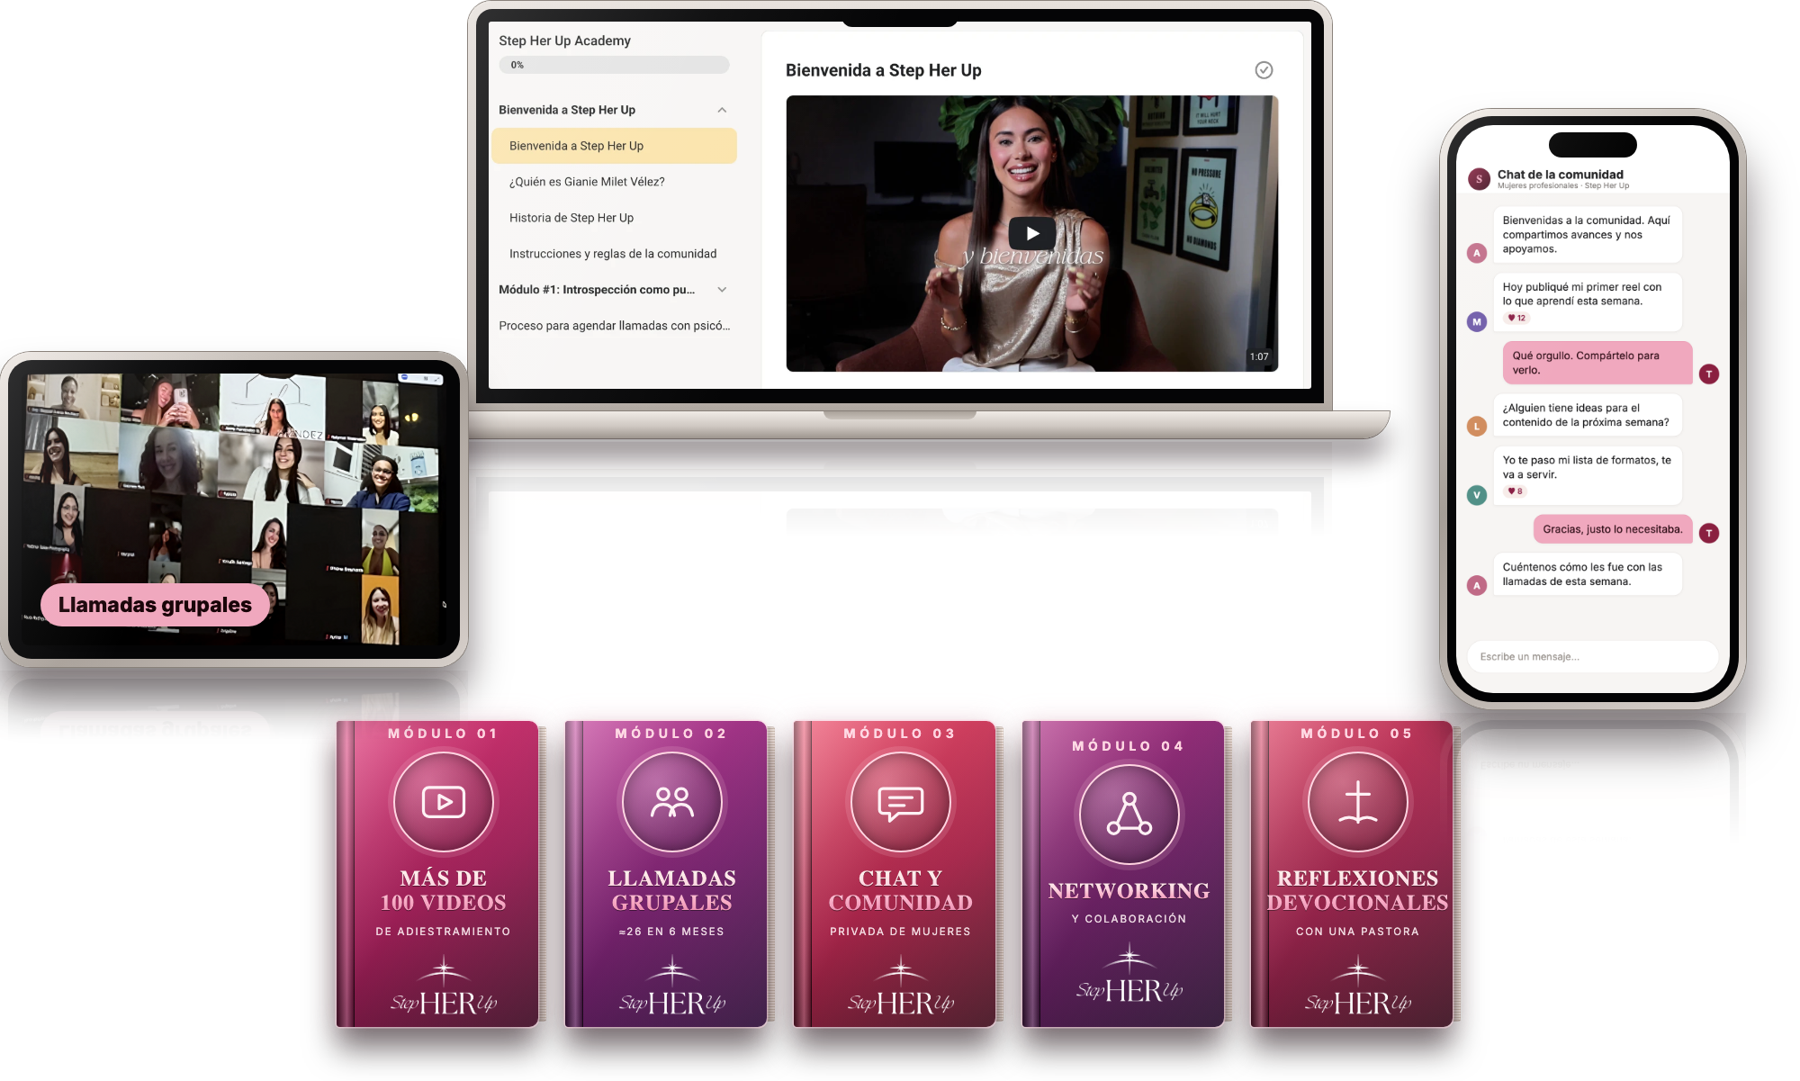
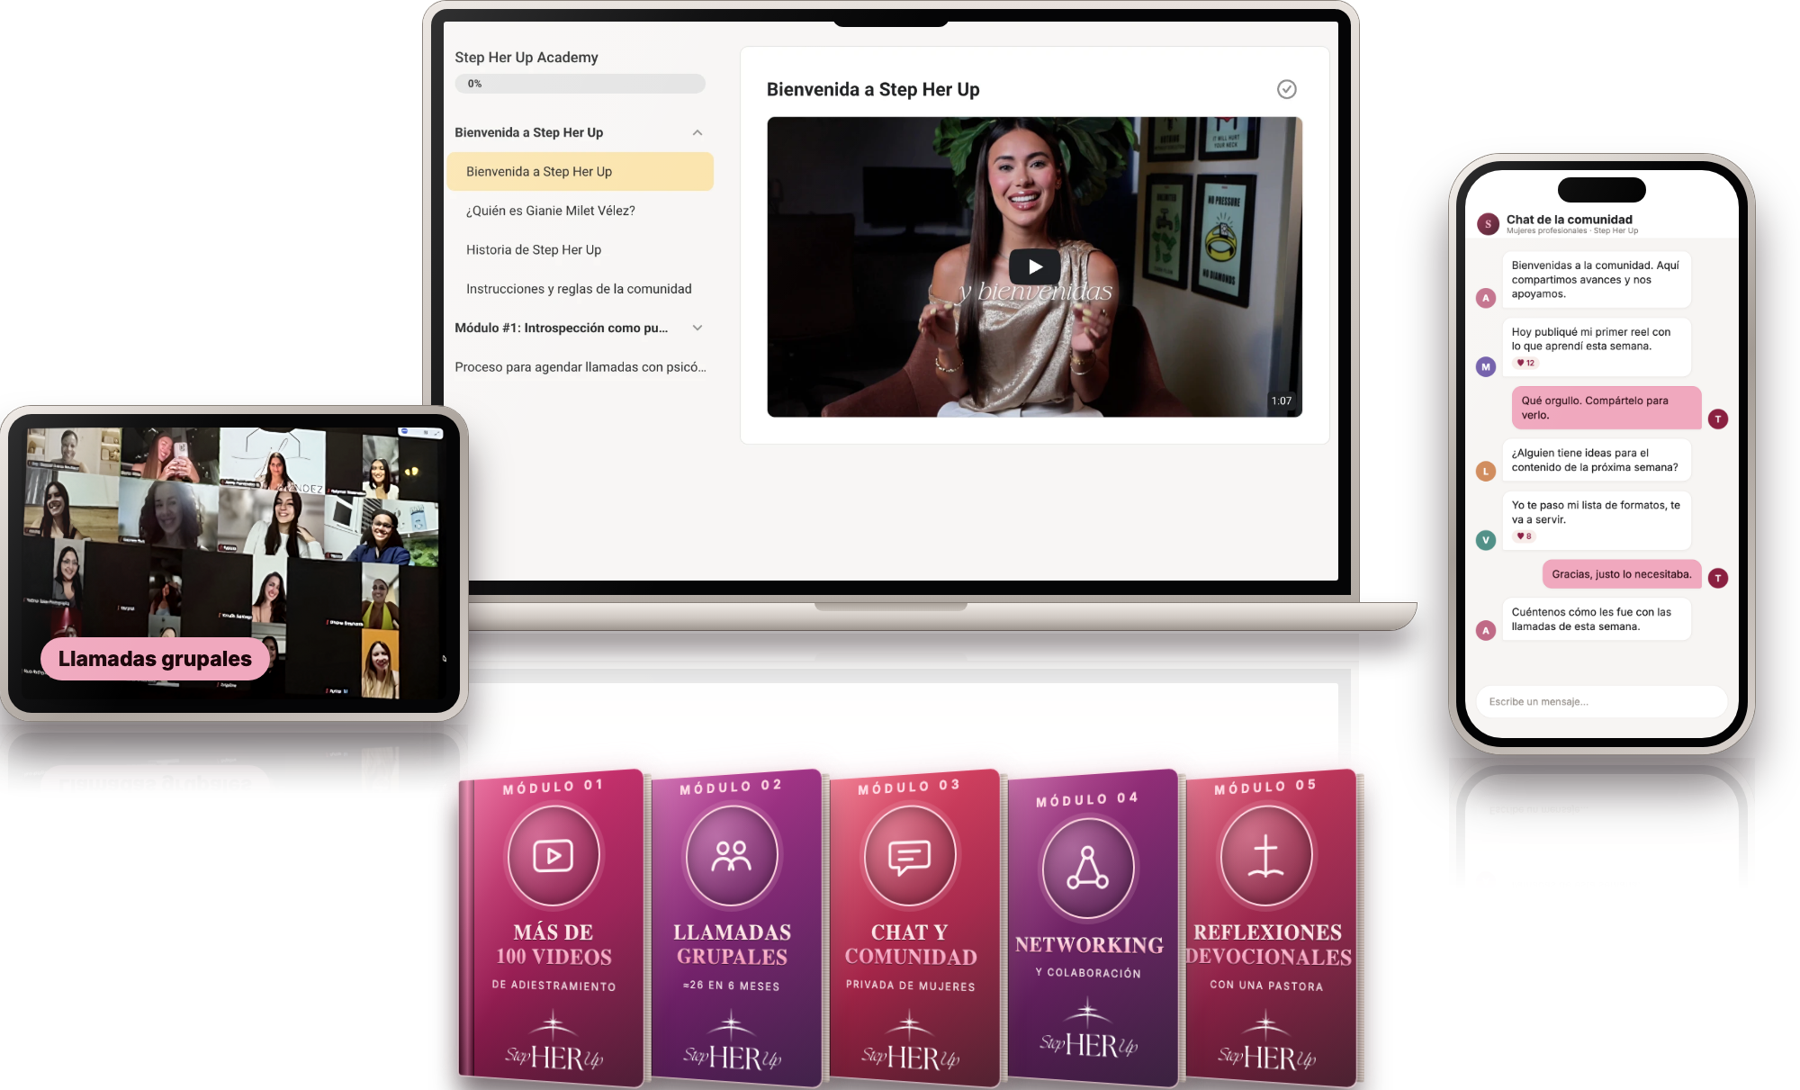
Oferta: sin datos ni '¿Es para ti?', total tachado con oferta de $997, mockup con pantalla 16:10 y libros juntos e inclinados

diff --git a/oferta/index.html b/oferta/index.html
@@ -141,6 +141,10 @@ fbq('track', 'PageView');
   .lb .x{ top:12px; right:14px; } .lb .pv{ left:12px; top:50%; margin-top:-24px; } .lb .nx{ right:12px; top:50%; margin-top:-24px; }
   .lb .n{ position:absolute; top:22px; left:0; right:0; text-align:center; color:rgba(255,255,255,.75); font-size:14px; }
   .gal a{ cursor:zoom-in; display:block; }
+  .v.tot b s{ color:rgba(247,236,233,.6); text-decoration-thickness:2px; }
+  .v.oferta{ background:linear-gradient(90deg,var(--blush-2),var(--blush)); border-color:var(--blush); color:#2a0a13; box-shadow:0 14px 34px rgba(232,138,168,.32); }
+  .v.oferta strong{ font-family:"Playfair Display",serif; font-size:26px; } .v.oferta span{ color:#5a1626; }
+  .v.oferta b{ color:#2a0a13; font-size:46px; }
 </style>
 </head>
 <body>
@@ -161,24 +165,7 @@ fbq('track', 'PageView');
     <p class="price-note">Pago único de $997</p>
   </div></section>
 
-  <div class="stats">
-    <div class="it"><b>+100</b><span>videos de adiestramiento en Skool</span></div>
-    <div class="it"><b>≈26</b><span>llamadas grupales con Gianie</span></div>
-    <div class="it"><b>6 meses</b><span>de acompañamiento</span></div>
-  </div>
-
-  <section class="block light"><div class="wrap center">
-    <p class="eyebrow">¿Es para ti?</p>
-    <h2>Esto es para ti si…</h2>
-    <ul class="list">
-      <li><i>1</i>Tienes la agenda llena y aun así no llegas a los $5,000 netos.</li>
-      <li><i>2</i>Llevas años en lo que haces y todavía dependes de referidos.</li>
-      <li><i>3</i>Compites por precio y no por el valor de tu servicio.</li>
-      <li><i>4</i>Quieres posicionarte y cobrar lo que vales.</li>
-    </ul>
-  </div></section>
-
-  <section class="block paper"><div class="wrap center">
+    <section class="block paper"><div class="wrap center">
     <p class="eyebrow">Esto es todo lo que recibirás</p>
     <h2>Cuando te unes hoy</h2>
     <img class="mock" src="https://shu.stepherup.com/assets/oferta-producto.png" alt="Sistema de crecimiento en Skool: caja del producto y plataforma en computadora, tablet y celular" loading="lazy">
@@ -188,7 +175,8 @@ fbq('track', 'PageView');
       <div class="v"><div><strong>Chat y comunidad privada de mujeres profesionales</strong><span>Comparte avances, conversa tus retos e intercambia experiencias.</span></div><b>$497</b></div>
       <div class="v"><div><strong>Networking y oportunidades de colaboración</strong><span>Conoce a mujeres con distintos servicios y explora alianzas.</span></div><b>$297</b></div>
       <div class="v"><div><strong>Reflexiones devocionales guiadas por una pastora</strong><span>Un espacio para nutrir tu fe mientras construyes tu marca.</span></div><b>$197</b></div>
-      <div class="v tot"><div><strong>Valor total estimado</strong></div><b>$6,510</b></div>
+      <div class="v tot"><div><strong>Valor total estimado</strong></div><b><s>$6,510</s></b></div>
+      <div class="v oferta"><div><strong>Oferta</strong><span>Pago único, solo por hoy</span></div><b>$997</b></div>
     </div>
     <p class="legal" style="margin-top:14px">Valores de referencia estimados para presentar la oferta; no corresponden a precios de venta individual.</p>
   </div></section>
